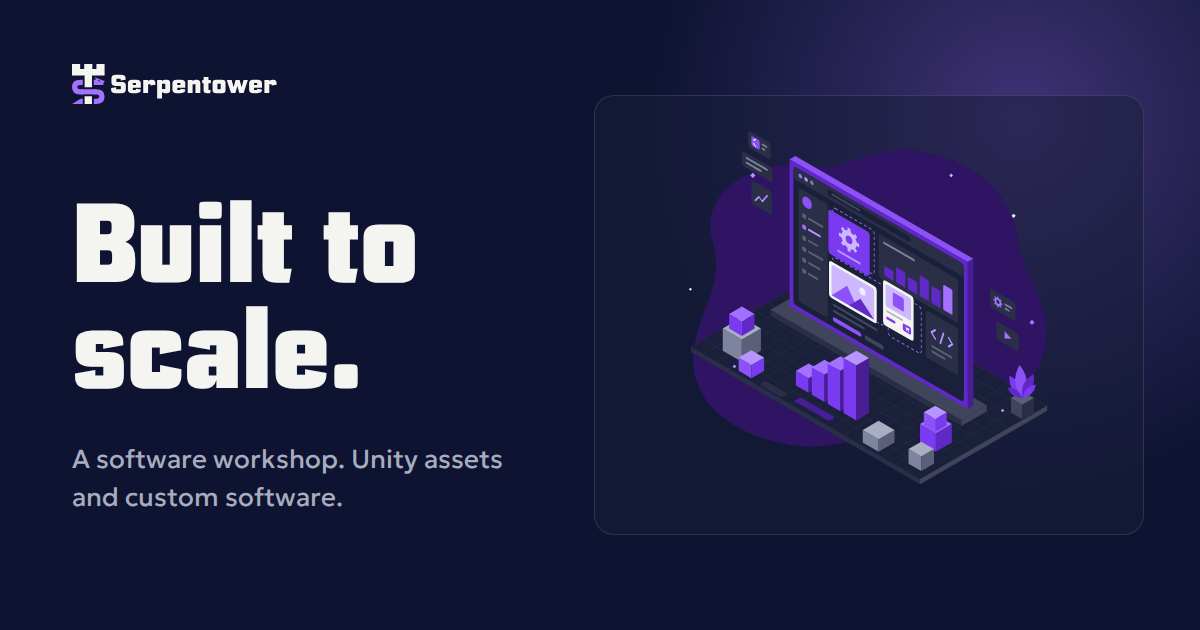
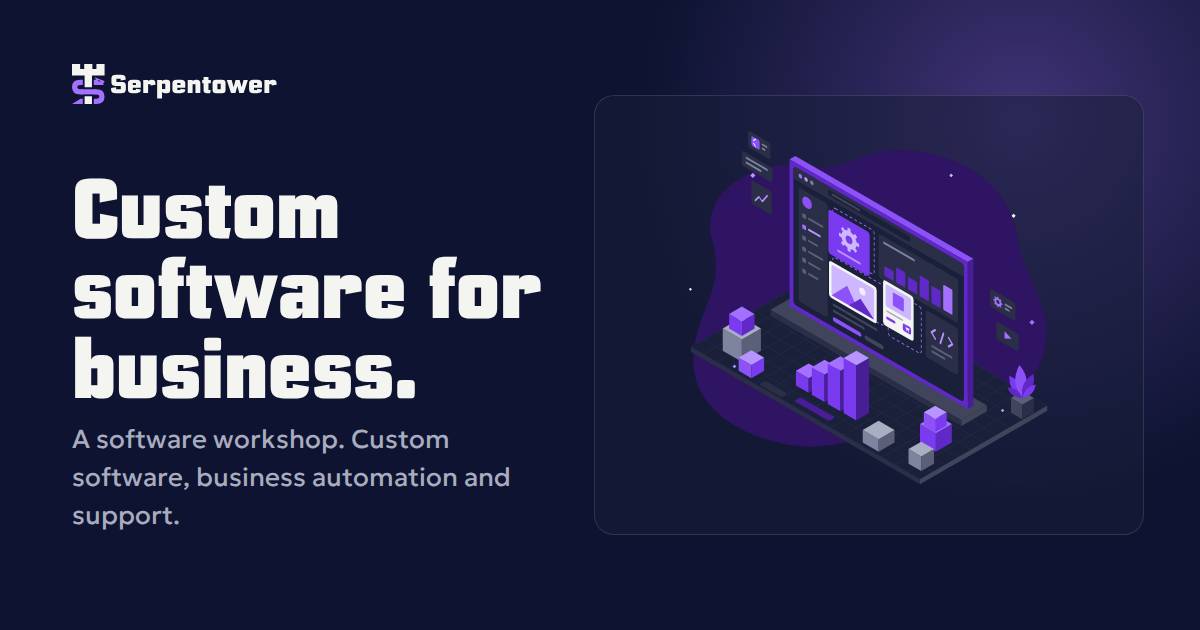
SEO: business-first title, H1, description; hero alt; new OG image

Changed region(s): [[0.0617, 0.2714, 0.4625, 0.6333], [0.0617, 0.6635, 0.4317, 0.8444]]

diff --git a/index.html b/index.html
@@ -3,8 +3,8 @@
 <head>
 <meta charset="utf-8">
 <meta name="viewport" content="width=device-width, initial-scale=1">
-<title>Serpentower - software workshop: Unity assets and custom software</title>
-<meta name="description" content="Serpentower is a software workshop. We publish Unity assets on the Asset Store and build custom software for clients.">
+<title>Serpentower - custom software and business automation</title>
+<meta name="description" content="Serpentower is a software workshop. Custom software, business automation and long-term support. Plus game development.">
 <link rel="canonical" href="https://serpentower.com/">
 <meta name="robots" content="index,follow">
 <meta name="theme-color" content="#0D1330">
@@ -13,16 +13,16 @@
 <link rel="apple-touch-icon" href="apple-touch-icon.png">
 <meta property="og:type" content="website">
 <meta property="og:site_name" content="Serpentower">
-<meta property="og:title" content="Serpentower - software workshop">
-<meta property="og:description" content="Serpentower is a software workshop. We publish Unity assets on the Asset Store and build custom software for clients.">
+<meta property="og:title" content="Serpentower - custom software and business automation">
+<meta property="og:description" content="Serpentower is a software workshop. Custom software, business automation and long-term support. Plus game development.">
 <meta property="og:url" content="https://serpentower.com/">
 <meta property="og:image" content="https://serpentower.com/og.png">
 <meta property="og:image:width" content="1200">
 <meta property="og:image:height" content="630">
-<meta property="og:image:alt" content="Serpentower - Built to scale. A software workshop.">
+<meta property="og:image:alt" content="Serpentower - custom software for business.">
 <meta name="twitter:card" content="summary_large_image">
 <meta name="twitter:image" content="https://serpentower.com/og.png">
-<script type="application/ld+json">{"@context":"https://schema.org","@type":"Organization","@id":"https://serpentower.com/#org","name":"Serpentower","url":"https://serpentower.com/","logo":"https://serpentower.com/favicon-48.png","description":"Serpentower is a software workshop. We publish Unity assets on the Asset Store and build custom software for clients."}</script>
+<script type="application/ld+json">{"@context":"https://schema.org","@type":"Organization","@id":"https://serpentower.com/#org","name":"Serpentower","url":"https://serpentower.com/","logo":"https://serpentower.com/favicon-48.png","description":"Serpentower is a software workshop. Custom software, business automation and long-term support. Plus game development."}</script>
 <link rel="preload" href="assets/science-gothic-700-cond.woff2" as="font" type="font/woff2" crossorigin>
 <link rel="preload" href="assets/geologica-400-600.woff2" as="font" type="font/woff2" crossorigin>
 <style>
@@ -328,9 +328,9 @@ footer .wrap{display:flex;justify-content:space-between;align-items:center;gap:1
 
 <main id="top">
 <section class="hero" aria-labelledby="h1">
-  <div class="art" aria-hidden="true"><img src="assets/hero.svg" alt="" width="1200" height="960"></div>
+  <div class="art" aria-hidden="true"><img src="assets/hero.svg" alt="Illustration of a software dashboard" width="1200" height="960"></div>
   <div class="wrap">
-    <h1 class="h" id="h1" data-i18n-html="hero.h1"><span class="sr-only">Serpentower, a software workshop: </span>Built to scale.</h1>
+    <h1 class="h" id="h1" data-i18n-html="hero.h1"><span class="sr-only">Serpentower, a software workshop: </span>Custom software for business.</h1>
     <p class="sub" data-i18n="hero.sub">A software workshop. We build Unity assets and custom software for clients.</p>
     <div class="ctas">
       <a class="btn btn-primary" href="#services" data-i18n="cta.what">What we build</a>
